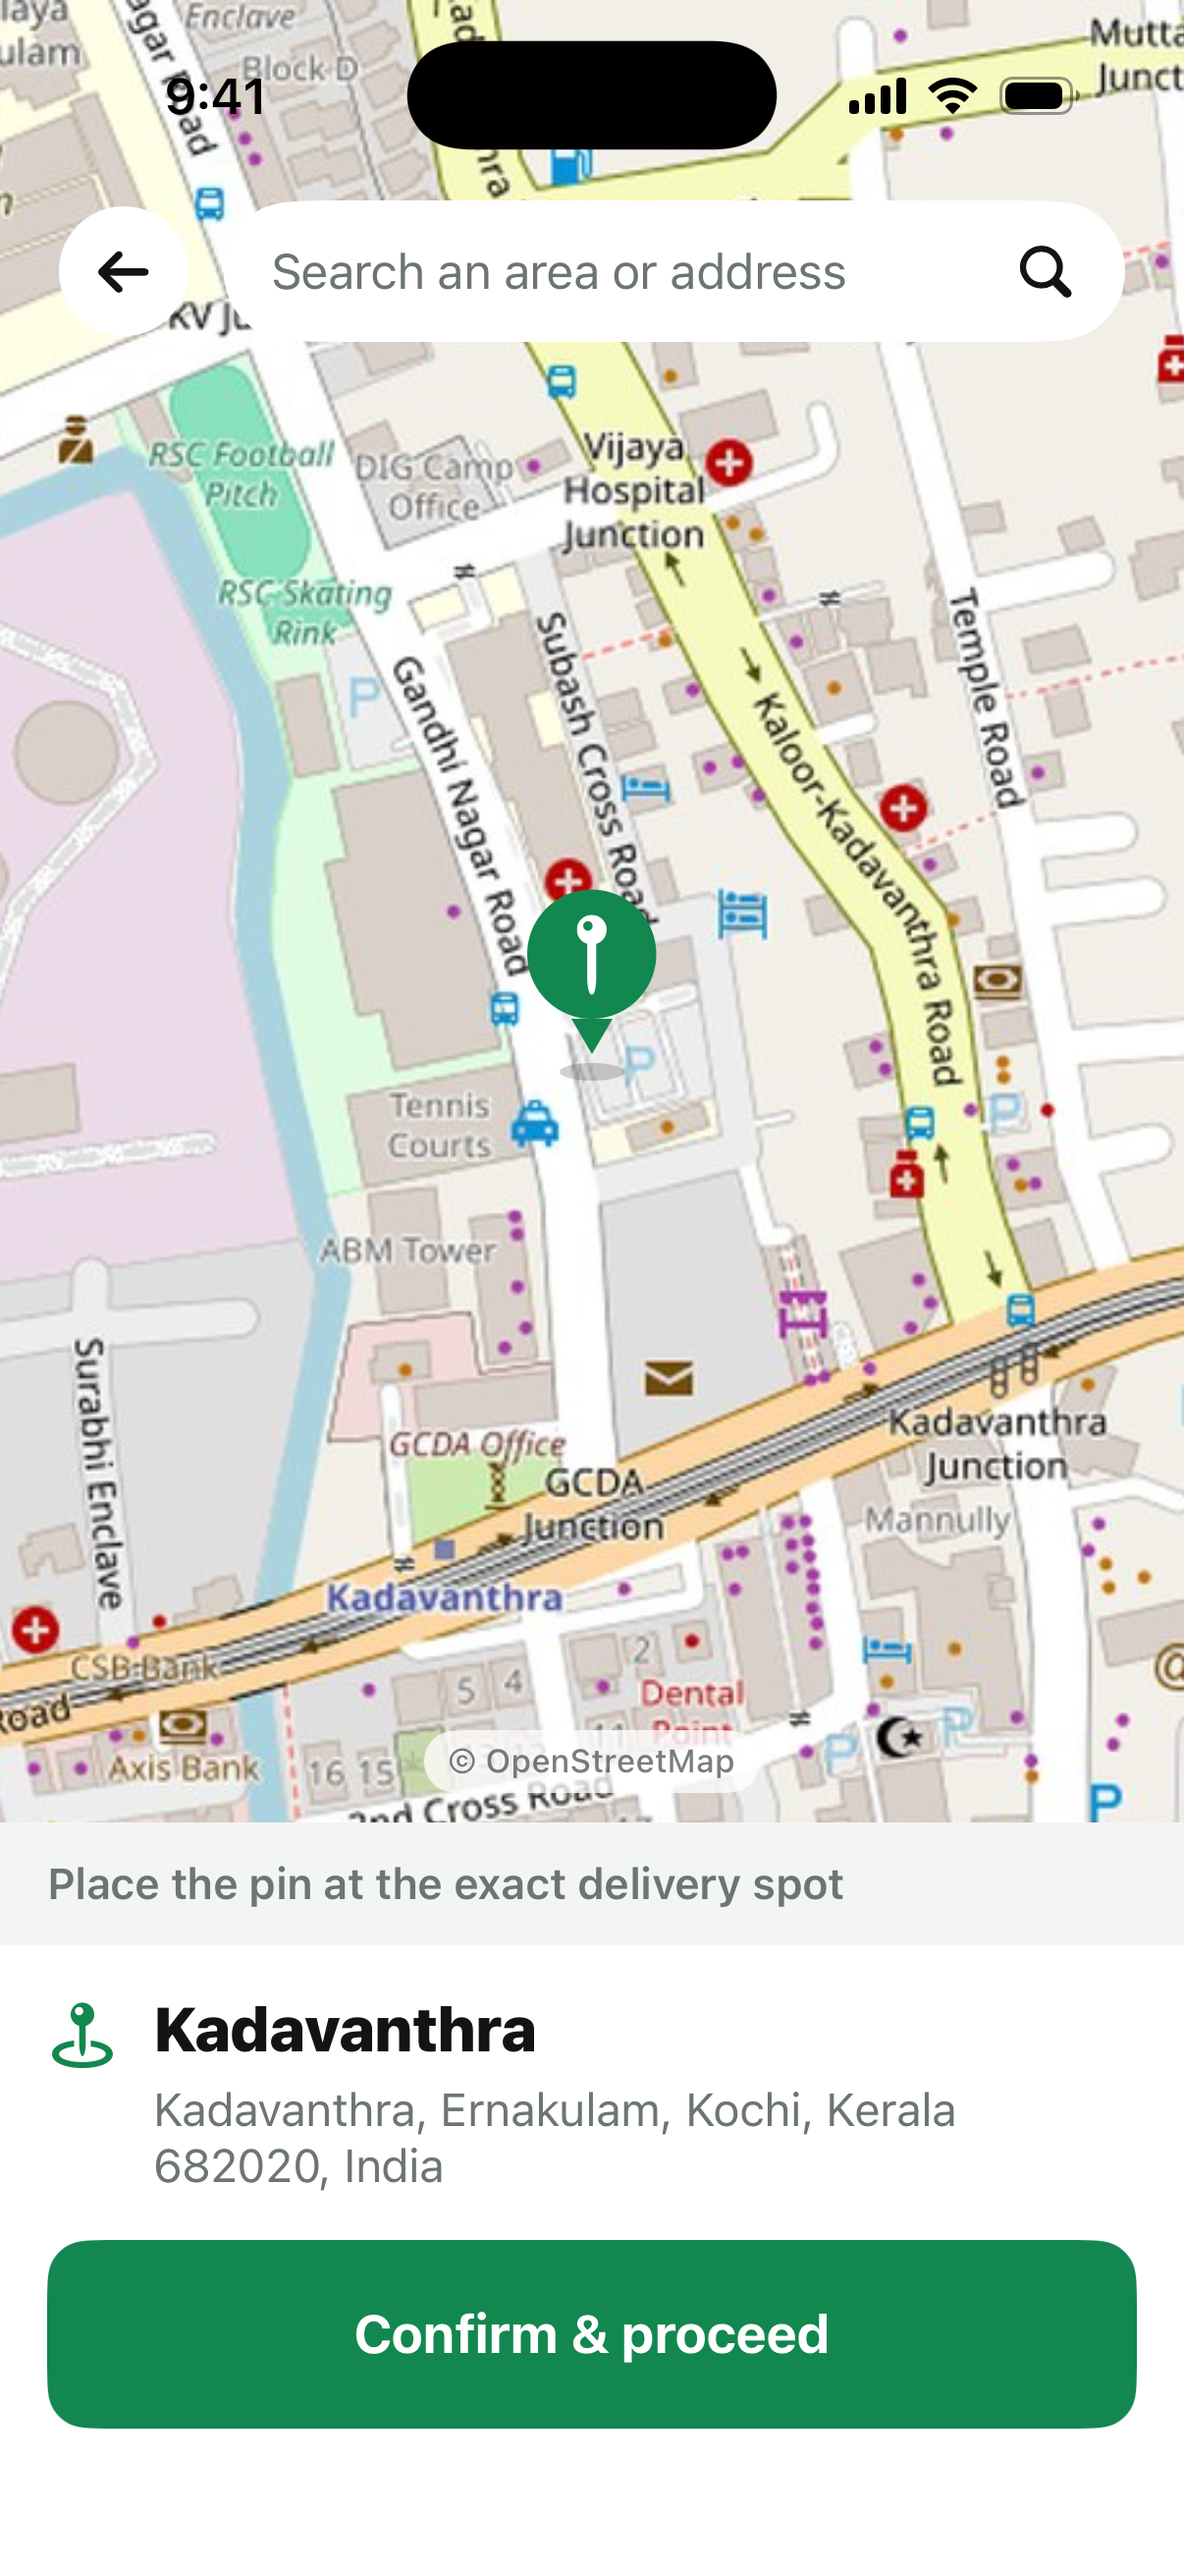
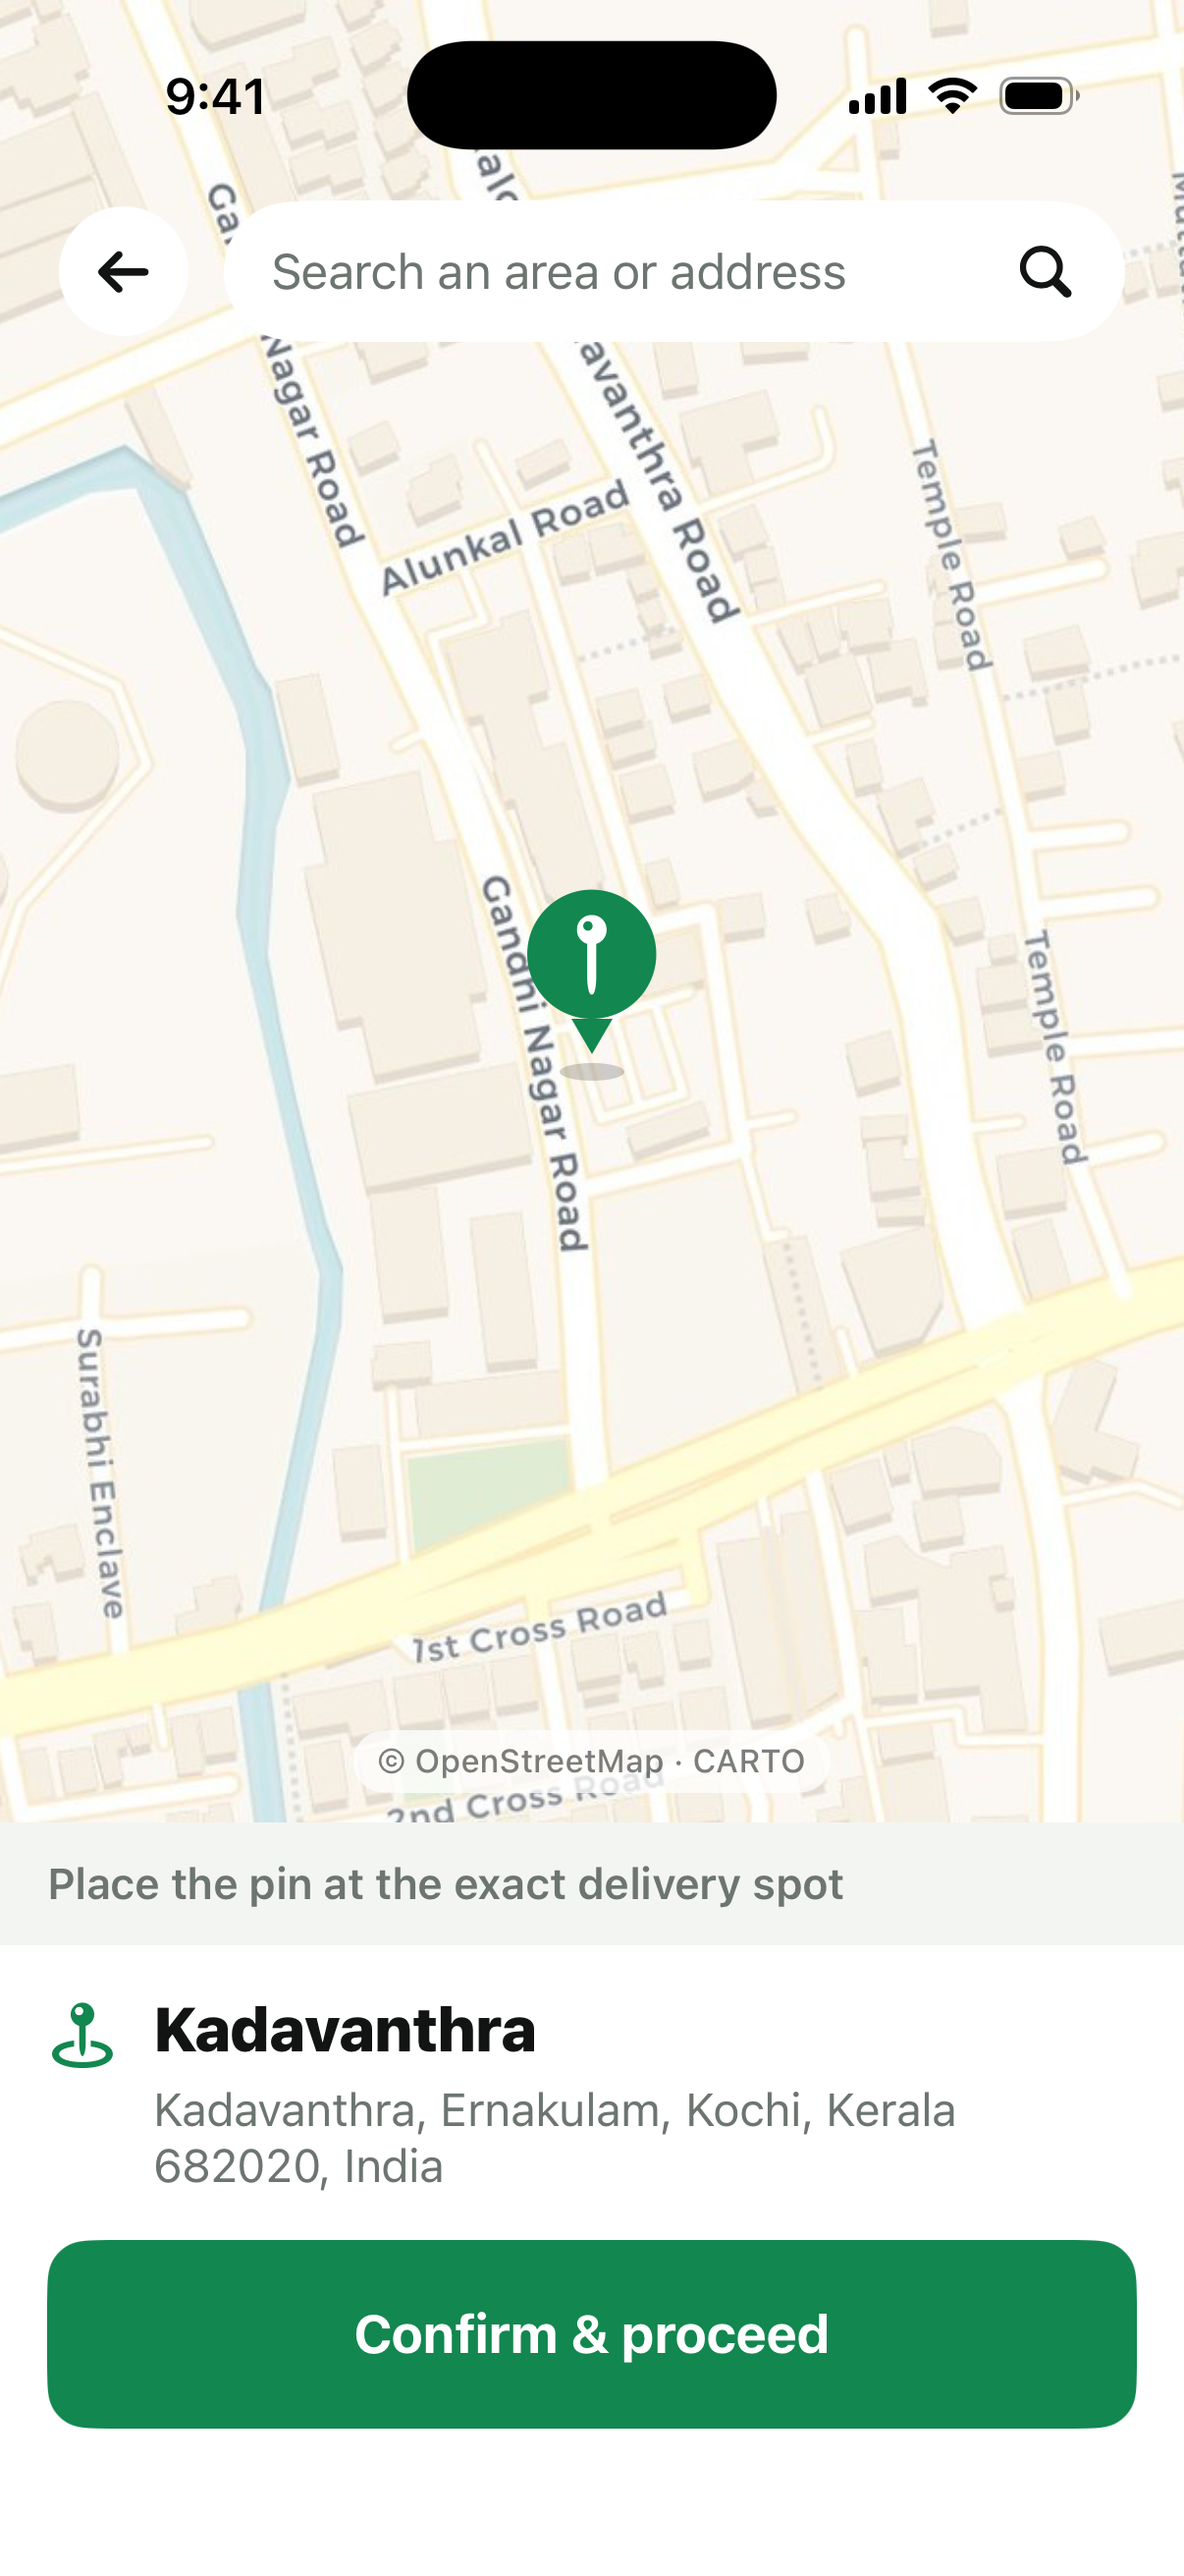
fix: Sprig header bleed, intro spacing, cleaner basemap
The shop header now runs under the status bar rather than stopping
below it, and the screen takes the dark scheme so the clock comes back
white over the green.

The intro promises sit in the layout instead of floating over it — they
were landing on the headline.

The map is a light CARTO Voyager basemap on OpenStreetMap data instead
of the standard OSM raster, which carried far too many labels to sit
under a sheet. Credit updated on screen and in the README.

diff --git a/onboarding-assets/sprig-screens/README.md b/onboarding-assets/sprig-screens/README.md
@@ -50,9 +50,11 @@ Credits also live beside the files in the app repo at `Sprig/Photos/CREDITS.json
 | `card-planter.jpg` | Ibnul Karim Rupen | CC BY-SA 3.0 |
 | `card-tulip.jpg` | 4028mdk09 | CC BY-SA 3.0 |
 
-**Map** — OpenStreetMap tiles over Kadavanthra, Kochi, stitched into a single
-bundled image. © OpenStreetMap contributors, ODbL. The credit is shown on the
-map screen itself, as the licence asks.
+**Map** — a light, low-ink basemap over Kadavanthra, Kochi: CARTO Voyager
+raster tiles built on OpenStreetMap data, stitched at 2× into a single bundled
+image. © OpenStreetMap contributors (ODbL), © CARTO. The credit is shown on the
+map screen itself, as the licences ask. The standard OSM raster was tried first
+and carried far too many labels and colours to sit under a sheet.
 
 Source app: `sprig-ios` (SwiftUI). To re-capture a screen:
 
